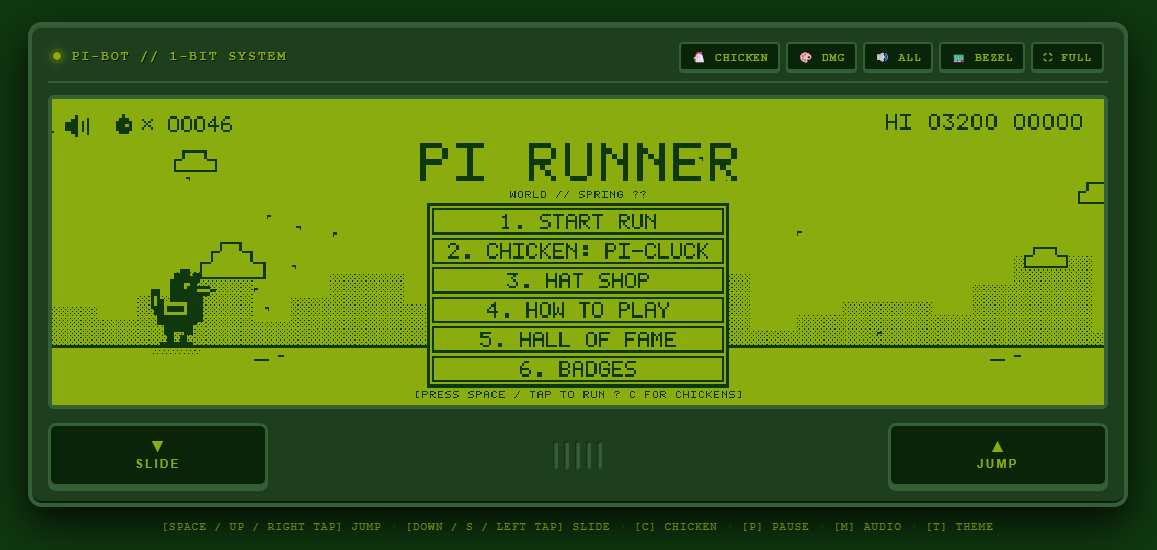
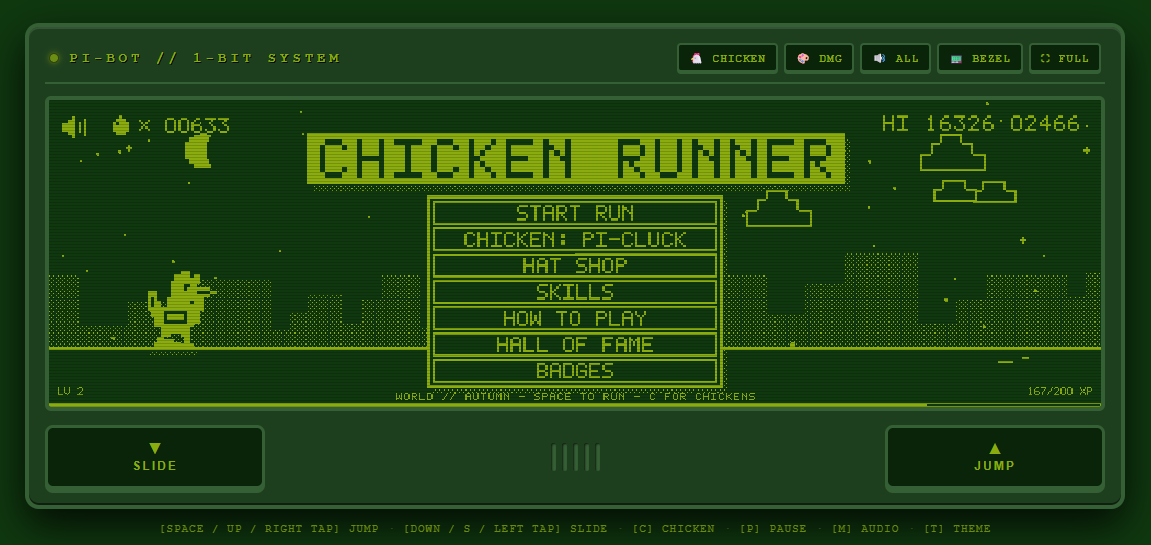
ReadMe file adjustment

diff --git a/README.md b/README.md
@@ -12,12 +12,16 @@ Abra `index.html` em um navegador moderno. Não é necessário instalar dependê
 
 ## Recursos
 
-- Cinco personagens jogáveis
+- Cinco personagens jogáveis (cosméticos, sem vantagem de gameplay)
 - Pulos, deslizes e obstáculos
-- Pontuação, recordes locais e ranking
-- Ovos coletáveis e chapéus cosméticos desbloqueáveis
-- Conquistas e múltiplos temas visuais retrô
-- Efeitos sonoros e música sintetizados com WebAudio
+- Pontuação, Hall of Fame (top 5 local com distância, ovos e data)
+- Ovos coletáveis que viram moeda no banco, para comprar chapéus na loja
+- Sistema de XP com níveis e árvore de skills de evolução (3 ramos)
+- Seis conquistas (badges) desbloqueáveis durante as corridas
+- Tutorial interativo de treino com recompensa única (+50 ovos e +50 XP)
+- Quatro estações e ciclo dia/noite que mudam ao longo da corrida
+- Cinco temas visuais 1-bit (B&W, DMG, AMBER, MAC, CYBER)
+- Efeitos sonoros e música sintetizados com WebAudio (modos ALL, SFX e OFF)
 - Controles de teclado e controles virtuais para telas sensíveis ao toque
 - Preferências e progresso salvos no navegador com LocalStorage
 
@@ -28,6 +32,78 @@ Abra `index.html` em um navegador moderno. Não é necessário instalar dependê
 |![DMG](Ref/Visuals/DMG-visual.png)|![AMBER](Ref/Visuals/AMBER-visual.png)|![CYBER](Ref/Visuals/CYBER-visual.png)|![MAC](Ref/Visuals/MAC-visual.png)|
 |Paleta verde clássica do Game Boy, com fundo verde-limão e elementos verde-escuros.|Tons âmbar de arcade, com fundo dourado e elementos quase pretos.|Visual cyberpunk em ciano vibrante e azul-marinho quase preto.|Estilo clássico de Macintosh, em branco quente e preto.|
 
+Além dos quatro temas acima, existe a paleta **B&W** (preto e branco puro), que é o tema padrão do jogo e não tem imagem de referência aqui. Use `T` para alternar entre os cinco.
+
+## Chars
+
+Cinco galinhas jogáveis, escolhidas no menu **CHICKEN** do menu principal ou pela tecla `C`. Todas são **puramente cosméticas**: nenhuma altera velocidade, pulo ou hitbox; a escolha fica salva no navegador.
+
+|Pi-Cluck|Rex|Chubby|Mecha|Shinobi|
+|--|--|--|--|--|
+|![cluck](Ref/Char/cluck.png)|![rex](Ref/Char/rex.png)|![chubby](Ref/Char/chubby.png)|![mecha](Ref/Char/mecha.png)|![shinobi](Ref/Char/shinobi.png)|
+|**A galinha original**: equilibrada, destemida e pronta para a maratona.|**O rei majestoso**: anda com estilo, crista gigante e cauda esvoaçante.|**A bolinha fofa**: 90% pena, 10% galinha, esfera de determinação.|**Unidade cibernética 3.14**: bico de titânio e visor, zero lag orgânico.|**A sombra silenciosa**: silenciosa como uma pena, corre pelas sombras.|
+
+## Hats
+
+Os chapéus são **cosméticos** e não afetam o gameplay. Eles são comprados com os **ovos do banco** (coletados nas corridas e depositados ao fim de cada run) na **HAT SHOP** do menu principal, e podem ser trocados quando quiser.
+
+|Grad Cap|Top Hat|Viking Helm|
+|--|--|--|
+|![grad](Ref/Hats/Grad.png)|![top](Ref/Hats/Top.png)|![vik](Ref/Hats/Vik.png)|
+|**GRAD CAP**: 20 ovos: excelência acadêmica.|**TOP HAT**: 35 ovos: galinha elegante e bem-vestida.|**VIKING HELM**: 60 ovos: conquistador emplumado.|
+
+Os demais chapéus do jogo (sem imagem de referência no repositório):
+
+|Chapéu|Custo|Descrição|
+|--|--|--|
+|NONE|Grátis|Cabeça nua clássica: o padrão, já vem liberado.|
+|RIBBON COMB|15 ovos|Laço xadrez: um toque fofo e colorido.|
+|CHEF TOQUE|50 ovos|Touca de chef: alta culinária ensolarada.|
+|EGG CROWN|80 ovos|Coroa de ovos: herdeiro real do ninho.|
+
+## Skill Tree
+
+A árvore de evolução é aberta pelo menu **SKILLS** e usa **XP como moeda**: o mesmo XP dos níveis (desbloquear um nó consome XP e pode até fazer o nível cair). O nó de entrada libera **três ramos**; cada habilidade exige a anterior na sua coluna e fica salva permanentemente. Navegue com as setas e pressione `Enter` para desbloquear.
+
+![Árvore de evolução do Chicken Runner com dez habilidades em três ramos](Ref/skilltree/skillTree.png)
+
+|Skill|Custo (XP)|Pré-requisito|Efeito|
+|--|--|--|--|
+|NEST OF EVOLUTION|50|:|Ponto de entrada: abre os três ramos da árvore.|
+|ARMOR FEATHERS|120|Nest of Evolution|Um escudo por corrida absorve uma colisão.|
+|DOUBLE SEQUENCE|100|Nest of Evolution|Ovos valem 30 de pontuação e o combo dura 2,4 s.|
+|ELASTIC JUMP|100|Nest of Evolution|Pulo 6% mais alto e janela de pulo (buffer) mais longa.|
+|ESCAPE REFLEX|200|Armor Feathers|Após o escudo bloquear um golpe: 2 s de invencibilidade e velocidade −10% por 3 s.|
+|BLAZING HEN|180|Double Sequence|Com combo x8 ou maior, os ovos valem o dobro.|
+|SLIDE BLADE|180|Elastic Jump|Hitbox do deslize 20% menor.|
+|GOLDEN HEN|320|Escape Reflex|O escudo se renova a cada 500 m percorridos.|
+|PERFECT HUNT|300|Blazing Hen|Desvio quase-acerto (near-miss) vale 25 pontos em vez de 10.|
+|TAIL TURBO|300|Slide Blade|Começa a 440 de velocidade e acelera 15% mais rápido.|
+
+## Progressão (XP e níveis)
+
+O XP alimenta os níveis e é a moeda da árvore de skills. Como obtê-lo:
+
+- **Distância:** 1 XP a cada 10 m percorridos.
+- **Ovos:** +2 XP por ovo coletado (eles também entram no banco ao fim da corrida).
+- **Conquistas:** +25 XP por badge desbloqueado.
+- **Treino:** +50 XP (e +50 ovos) na conclusão do tutorial.
+
+O nível sobe automaticamente conforme o XP acumulado (o custo por nível aumenta a cada avanço). Tudo fica salvo no LocalStorage.
+
+## Conquistas
+
+Seis badges desbloqueados durante as corridas (cada um concede +25 XP):
+
+|Badge|Condição|
+|--|--|
+|FIRST FLIGHT|Completar a primeira corrida.|
+|NIGHT OWL|Sobreviver ao período noturno.|
+|FOUR SEASONS|Alcançar a neve do inverno.|
+|EGG MAGNATE|Ter 50 ovos (na corrida ou no banco).|
+|SPEED DEMON|Ultrapassar 750 px/s de velocidade.|
+|CLOSE CALL|Acumular 3 desvios quase-acerto.|
+
 ## Tecnologias
 
 - HTML5, CSS3 e JavaScript
@@ -35,21 +111,26 @@ Abra `index.html` em um navegador moderno. Não é necessário instalar dependê
 - WebAudio API para áudio
 - LocalStorage para salvar dados localmente
 
-### Controles
+## Controles
 
-- **Pular:** Espaço, seta para cima ou botão de toque
-- **Deslizar:** seta para baixo ou botão de toque
-- **Pausar:** P
-- **Trocar personagem:** C
-- **Alternar áudio:** M
-- **Trocar tema:** T
+- **Pular:** Espaço, seta para cima, `W` ou botão de toque
+- **Deslizar:** seta para baixo, `S` ou botão de toque
+- **Pausar / voltar:** `P` ou `Esc`
+- **Trocar personagem:** `C`
+- **Alternar áudio:** `M` (cicla ALL → SFX → OFF)
+- **Trocar tema:** `T` (B&W, DMG, AMBER, MAC, CYBER)
+- **Ligar/desligar bezel do console:** `B`
+- **Tela cheia:** `F`
+- **Navegar nos menus:** mouse ou toque
+- **Árvore de skills:** setas ou `W/A/S/D` para navegar, `Enter` (ou Espaço) para desbloquear
 
 ## Estrutura
 
-- `index.html` — estrutura da página e interface do jogo
-- `css/style.css` — estilos e apresentação responsiva
-- `js/game.js` — lógica do jogo, renderização, áudio e progressão
-- `assets/` — arquivos auxiliares
+- `index.html`: estrutura da página e interface do jogo
+- `css/style.css`: estilos e apresentação responsiva
+- `js/game.js`: lógica do jogo, renderização, áudio e progressão
+- `assets/`: arquivos auxiliares
+- `Ref/`: imagens de referência usadas neste README (personagens, chapéus, temas e skill tree)
 
 ## Desenvolvimento
 
